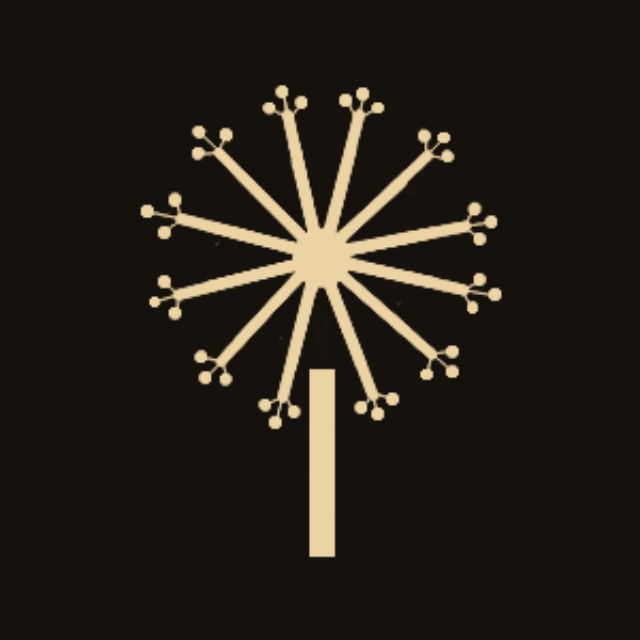
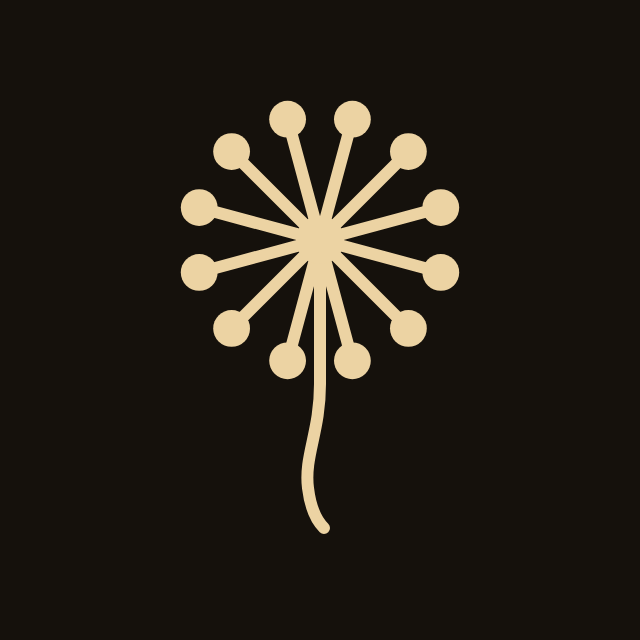
Значок сайта: одуванчик на изгибе (12 лучей, тонкий стебель с изгибом внизу)
Во вкладке — тёмный кружок, на экране телефона — тёмный квадрат.
Ссылки на значки с ?v=2, чтобы браузеры взяли новый.

Claude-Session: https://claude.ai/code/session_01AXEF3PwFPWwtdhWQN3WygD

Changed region(s): [[0.2188, 0.125, 0.7812, 0.875]]

diff --git a/index.html b/index.html
@@ -16,8 +16,8 @@
 <meta property="vk:image" content="https://13mirrors.ru/assets/og.jpg">
 <meta name="twitter:card" content="summary_large_image">
 <meta name="theme-color" content="#0d0a07">
-<link rel="icon" href="favicon.svg" type="image/svg+xml">
-<link rel="apple-touch-icon" href="assets/apple-touch-icon.png">
+<link rel="icon" href="favicon.svg?v=2" type="image/svg+xml">
+<link rel="apple-touch-icon" href="assets/apple-touch-icon.png?v=2">
 <link rel="preload" as="image" href="assets/door-wide.webp" media="(min-aspect-ratio: 4/5)">
 <link rel="preload" as="image" href="assets/door-tall.webp" media="(max-aspect-ratio: 4/5)">
 <!-- Шрифты лежат на самом сайте (копии с Google Fonts в витрине: /vitrina/assets/fonts/) — к Google браузер не обращается -->

diff --git a/grimoire/index.html b/grimoire/index.html
@@ -16,8 +16,8 @@
 <meta property="vk:image" content="https://13mirrors.ru/assets/og.jpg">
 <meta name="twitter:card" content="summary_large_image">
 <meta name="theme-color" content="#0d0a07">
-<link rel="icon" href="/favicon.svg" type="image/svg+xml">
-<link rel="apple-touch-icon" href="/assets/apple-touch-icon.png">
+<link rel="icon" href="/favicon.svg?v=2" type="image/svg+xml">
+<link rel="apple-touch-icon" href="/assets/apple-touch-icon.png?v=2">
 <!-- Шрифты лежат на самом сайте (копии с Google Fonts в витрине: /vitrina/assets/fonts/) — к Google браузер не обращается -->
 <link rel="stylesheet" href="/vitrina/assets/fonts/cormorant-garamond.css">
 <link rel="stylesheet" href="/vitrina/assets/fonts/jost.css">

diff --git a/privacy/index.html b/privacy/index.html
@@ -15,8 +15,8 @@
 <meta property="og:image:height" content="630">
 <meta name="twitter:card" content="summary_large_image">
 <meta name="theme-color" content="#0d0a07">
-<link rel="icon" href="/favicon.svg" type="image/svg+xml">
-<link rel="apple-touch-icon" href="/assets/apple-touch-icon.png">
+<link rel="icon" href="/favicon.svg?v=2" type="image/svg+xml">
+<link rel="apple-touch-icon" href="/assets/apple-touch-icon.png?v=2">
 <!-- Шрифты лежат на самом сайте (копии с Google Fonts в витрине: /vitrina/assets/fonts/) — к Google браузер не обращается -->
 <link rel="stylesheet" href="/vitrina/assets/fonts/cormorant-garamond.css">
 <link rel="stylesheet" href="/vitrina/assets/fonts/jost.css">
